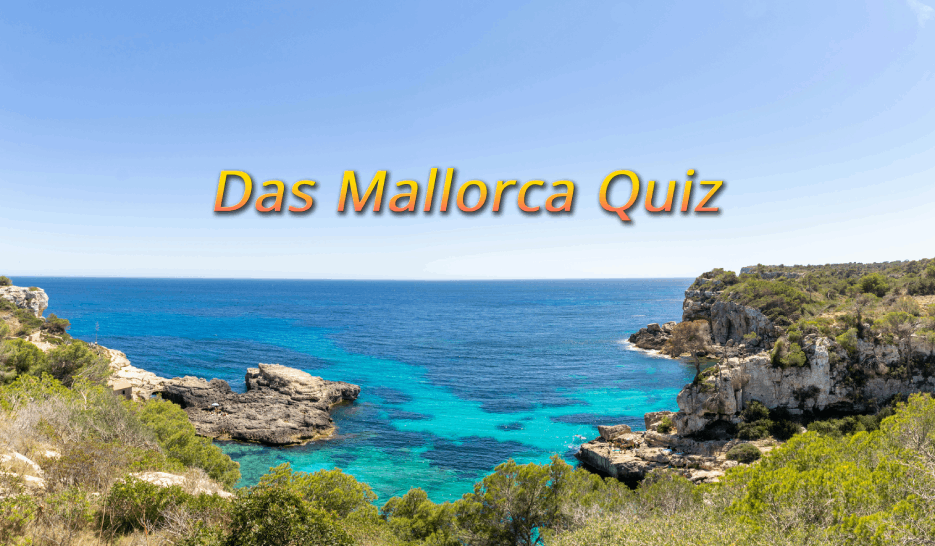
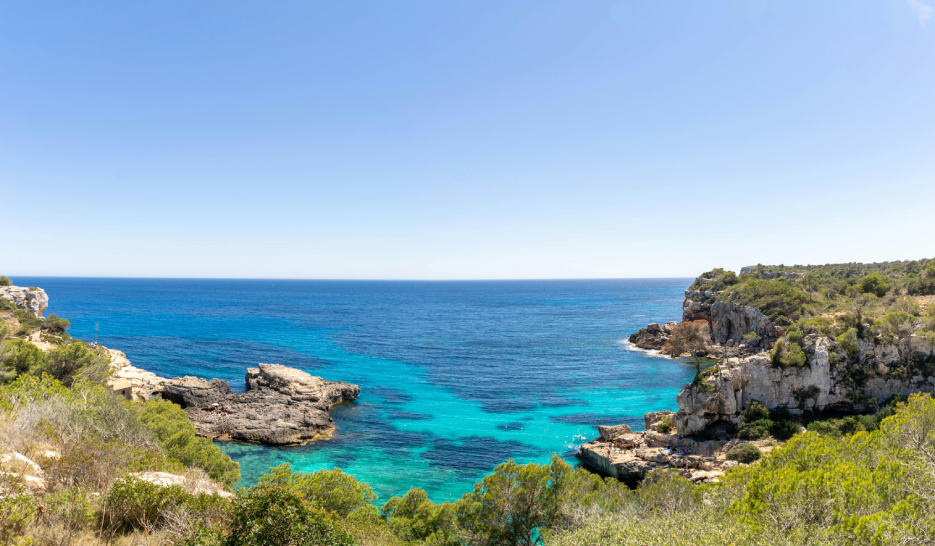
1

Changed region(s): [[0.2171, 0.3114, 0.7754, 0.4359]]

diff --git a/index.html b/index.html
@@ -62,12 +62,13 @@
         </div>
       </nav> -->
       <div class="card">
-        <img
+       <div class="bgimg"> <span class="headertitle"><h1>Das Mallorca Quiz</h1></span></div> 
+       <!-- <img
           src="img/mallorca.png"
           class="card-img-top"
           alt="..."
           id="head"
-        />
+        /> -->
         <div
           id="progressbarround"
           class="progress rounded-bottom borderradius0"
@@ -108,16 +109,16 @@
           <p class="card-text" id="questionText">
           </p>
 
-          <div class="carda card mb-2" onclick="answer('answer_1')">
+          <div class="carda card mb-2 width100" onclick="answer('answer_1')">
             <div class="card-body" id="answer_1"></div>
           </div>
-          <div class="carda card mb-2" onclick="answer('answer_2')">
+          <div class="carda card mb-2 width100" onclick="answer('answer_2')">
             <div class="card-body" id="answer_2"></div>
           </div>
-          <div class="carda card mb-2" onclick="answer('answer_3')">
+          <div class="carda card mb-2 width100" onclick="answer('answer_3')">
             <div class="card-body" id="answer_3"></div>
           </div>
-          <div class="carda card mb-2" onclick="answer('answer_4')">
+          <div class="carda card mb-2 width100" onclick="answer('answer_4')">
             <div class="card-body" id="answer_4"></div>
           </div>
           <div class="question-footer">

diff --git a/style.css b/style.css
@@ -9,6 +9,21 @@ body{
 main{
     display: flex;
     justify-content: center;
+    height: 100vh;
+}
+.headertitle{
+    
+
+}
+h1{
+    -webkit-text-stroke: 1px rgba(0, 0, 0, 0.79); 
+    background-image:linear-gradient(0deg, rgba(255,72,72,1) 0%, rgba(255,231,0,1) 73%, rgba(255,231,0,1) 100%);
+    -webkit-background-clip: text;
+    -webkit-text-fill-color: transparent;
+    user-select: none;  
+
+    
+    font-weight: 700 !important;
 }
 .card{
     width: 80%;
@@ -54,6 +69,15 @@ align-items: center;
     pointer-events: none;
     opacity: 1;
 }
+.bgimg{
+    background-image: url(img/mallorca.png);
+    background-size: cover;
+    background-position: bottom;
+    height: 200px;
+    display: flex;
+    justify-content: center;
+    align-items: center;
+}
 
 @media (max-width: 560px){
     body{
@@ -65,5 +89,8 @@ align-items: center;
     }
     .card{
         width: 100%;
+    }
+    .bgimg{
+        max-height: 200px;
     }
 }
